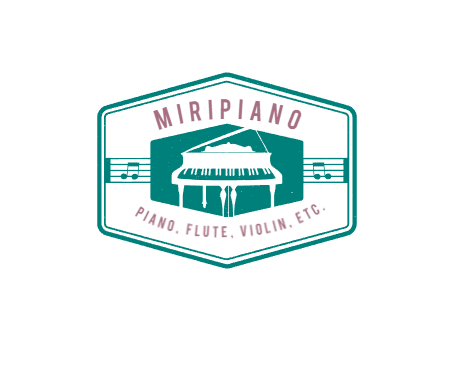
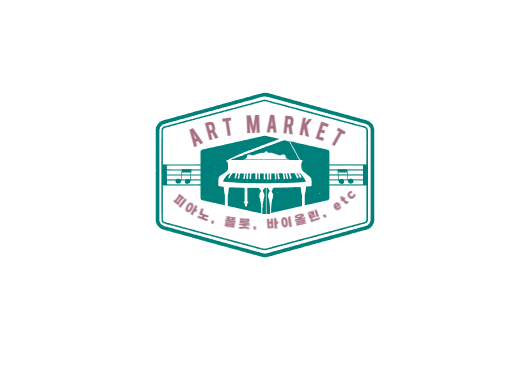
2일차 (2)
로고변경

Changed region(s): [[0.2159, 0.1746, 0.8018, 0.7275]]

diff --git a/FED-RF-2nd-2024-yjhong/001.HTML학습/001.yjhong_Pj/css/styles.css b/FED-RF-2nd-2024-yjhong/001.HTML학습/001.yjhong_Pj/css/styles.css
@@ -13,8 +13,8 @@ header {
 }
 
 .logo {    
-    height: 150px;
-    width: 120px;
-    max-height: 100%;
-    max-width: 100%;
+    height: 220px;
+    width: 220px;
+    /* max-height: 100%;
+    max-width: 100%; */
 }
